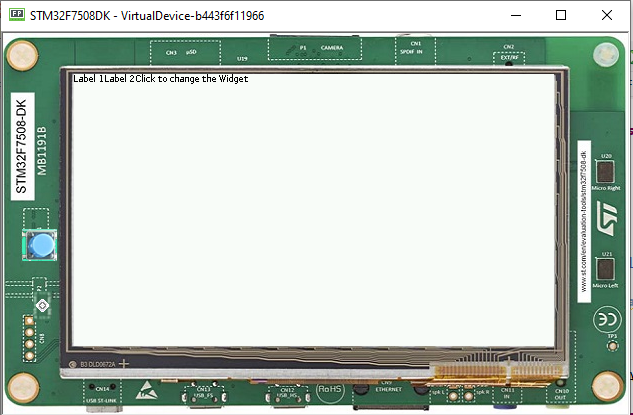
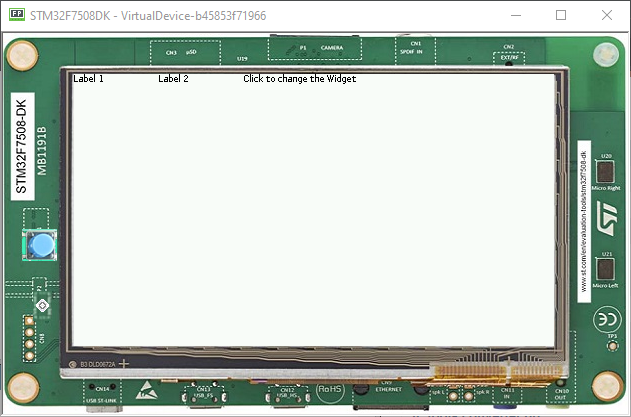
increment the tutorial with the option to go back to another desktop

diff --git a/ApplicationDeveloperGuide/UI/MWT/how-to-hide-widget.rst b/ApplicationDeveloperGuide/UI/MWT/how-to-hide-widget.rst
@@ -6,14 +6,14 @@ Hiding a Widget
 Using Desktop To hide a widget
 ---------------------------------
 
-In the code Sample below, a button is created to change the Desktop when clicked, a new desktop with a widget is created, hiding the ones behind it
+In the code Sample below, a button is created to change the Desktop when clicked:
 
 .. code-block:: java
 
     MicroUI.start();
     Desktop desktop = new Desktop();
     Canvas c;
-    MyFlow list = new MyFlow();
+    Flow list = new Flow(Orientation");
     list.addChild(new Label("Label 1"));
     list.addChild(new Label("Label 2"));
     Button b = new Button("Click to change the Widget");
@@ -29,9 +29,37 @@ In the code Sample below, a button is created to change the Desktop when clicked
     desktop.setWidget(list);
     desktop.requestShow();
 
-it's possible to go back with the old desktop by just requesting show on the old desktop 
+A new desktop with a widget is created, this will hide the Desktop, to go back to the first desktop you do the same process of calling requestShow from the desktop
+
+.. code-block:: java
+
+    MicroUI.start();
+    Desktop desktop = new Desktop();
+    Canvas c;
+    Flow list = new Flow(LayoutOrientation.HORIZONTAL);
+    list.addChild(new Label("Label 1"));
+    list.addChild(new Label("Label 2"));
+    Button b = new Button("Click to change the Widget");
+    Desktop desktop2 = new Desktop();
+    b.setOnClickListener(new OnClickListener() {
+        @Override
+        public void onClick() {
+            Button b2 = new Button("Click to change back the Widget");
+            b2.setOnClickListener(new OnClickListener() {
+                @Override
+                public void onClick() {
+                    desktop.requestShow();
+                }
+            });
+            desktop2.setWidget(b2);
+            desktop2.requestShow();
+        }
+    });
+    list.addChild(b);
+    desktop.setWidget(list);
+    desktop.requestShow();
+
 
 .. image:: images/hidewidgetshow.png
 
 .. image:: images/hidewidgethidden.png
-
